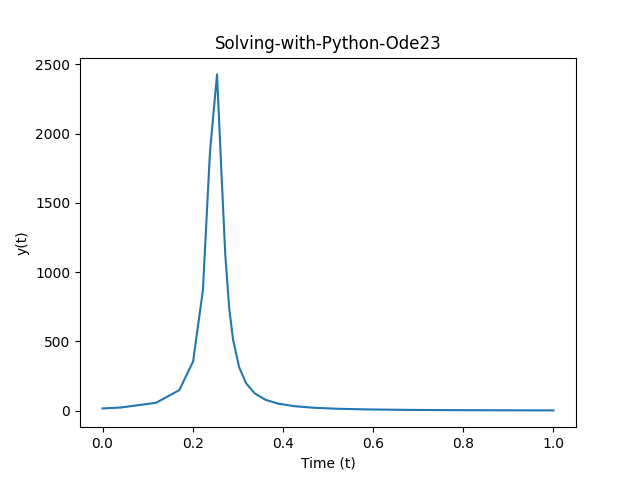
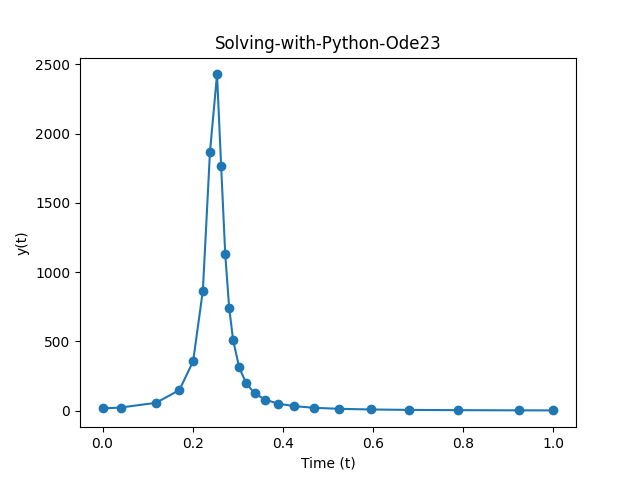
concluded ode

diff --git a/docs/source/ordinary_diff_eq.rst b/docs/source/ordinary_diff_eq.rst
@@ -106,24 +106,24 @@ You can use tabs to display code in multiple languages. For example:
          import numpy as np
          from scipy.integrate import solve_ivp
          import matplotlib.pyplot as plt
-
+         
          # define function
          def dydt(t, y):
-             a = 0.25
-             return 2 * (a - t) * y **2;
-
-
+           a = 0.25
+           return 2 * (a - t) * y **2;
+         
+         
          # set inigial condition
-         y0 = 15.9
-
+         y0 = [15.9]
+         
          # set time span
-         t_span = [0, 10] 
-
+         t_span = [0, 1] 
+         
          # call the solver
          sol = solve_ivp(dydt, t_span, y0)
-            
+                     
          # display the result
-         plt.plot(t, y)
+         plt.plot(sol.t, sol.y[0],  marker='o', linestyle='-')
          plt.xlabel('Time (t)')
          plt.ylabel('y(t)')
          plt.title('Solving-with-Python-Ode23')
